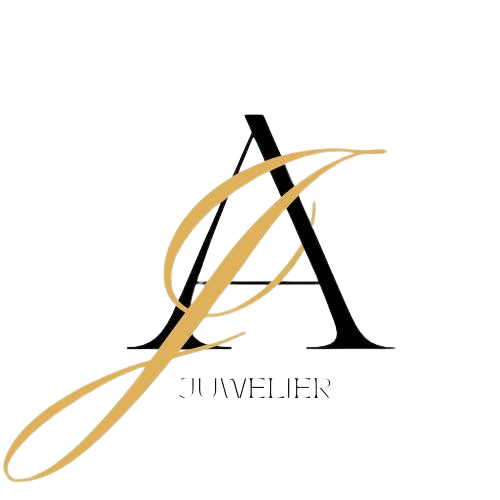
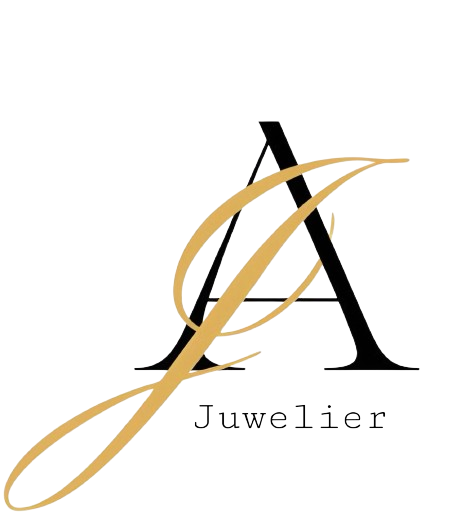
commit

Changed region(s): [[0.0, 0.21, 0.8936, 0.96], [0.6851, 0.78, 0.834, 0.81]]

diff --git a/src/components/TheHeader.vue b/src/components/TheHeader.vue
@@ -27,7 +27,7 @@ export default {
     <nav v-if="$route.name != 'not-found'" class="navbar navbar-expand-lg bg-body-tertiary">
         <div class="container-fluid">
             <router-link :to="{ name: 'home' }" class="navbar-brand">
-                <img src="../assets/a-juwelier-logo-nav.png" style="width: 60px;" alt="a-juwelier-logo">
+                <img src="../assets/a-juwelier.png" style="width: 140px;" alt="a-juwelier-logo">
             </router-link>
             <button class="navbar-toggler" type="button" data-bs-toggle="collapse" data-bs-target="#navbarNav"
                 aria-controls="navbarNav" aria-expanded="false" aria-label="Toggle navigation">
@@ -36,7 +36,7 @@ export default {
             <div class="collapse navbar-collapse" id="navbarNav">
                 <ul class="navbar-nav">
                     <li v-for="link in navLinks" class="nav-item">
-                        <router-link :to="{ name: link.link_name }" class="nav-link"
+                        <router-link :to="{ name: link.link_name }" class="nav-link my-text fs-5"
                         :class="$route.name == link.link_name ? 'active' : ''">
                             {{ link.link }}
                         </router-link>
@@ -49,4 +49,7 @@ export default {
 
 <style scoped>
 
+.my-text {
+    font-family: 'Courier New', Courier, monospace;
+}
 </style>

diff --git a/src/pages/AppHome.vue b/src/pages/AppHome.vue
@@ -7,17 +7,26 @@ export default {
 </script>
 
 <template>
-    <h1 class="text-center">Home</h1>
-    <div class="my-img-logo-container">
-        <img src="../assets/a-juwelier.png" class="img-fluid" alt="a juwelier">
+    <div class="container-fluid my-jumbo">
     </div>
-    
+    <h1 class="text-center my-title">Welcome</h1>
+
+    <div class="text-center my-3">
+        <router-link :to="{ name: 'watches' }" class="btn btn-outline-info btn-lg">
+            Discover <i class="fa-solid fa-arrow-pointer"></i>
+        </router-link>
+    </div>
 </template>
 
 <style scoped>
 
-.my-img-logo-container {
-    width: 400px;
-    margin: auto;
+.my-title {
+    font-family: 'Courier New', Courier, monospace;
+}
+.my-jumbo {
+    background-image: url('../assets/background.webp');
+    background-size: cover;
+    background-position-y: center;
+    height: 450px;
 }
 </style>

diff --git a/src/pages/AppWatches.vue b/src/pages/AppWatches.vue
@@ -42,7 +42,7 @@ export default {
 </script>
 
 <template>
-    <h1 class="text-center">Watches</h1>
+    <h1 class="text-center my-title">Watches</h1>
 
     <div class="container-fluid">
         <form action="" class="w-50 my-5" @submit.prevent="fetchData">
@@ -71,6 +71,9 @@ export default {
 
 <style scoped>
 
+.my-title {
+    font-family: 'Courier New', Courier, monospace;
+}
 .my-flex-item {
     flex-basis: calc((100% / 5) - (7px * 2));
     margin: 0 7px;

diff --git a/src/pages/AppContacts.vue b/src/pages/AppContacts.vue
@@ -7,10 +7,15 @@
 </script>
 
 <template>
-    <h1 class="text-center">Contacts</h1>
+    <h1 class="text-center my-title">Contacts</h1>
+    <div class="container">
 
+    </div>
 </template>
 
 <style scoped>
 
+.my-title {
+  font-family: 'Courier New', Courier, monospace;
+}
 </style>
